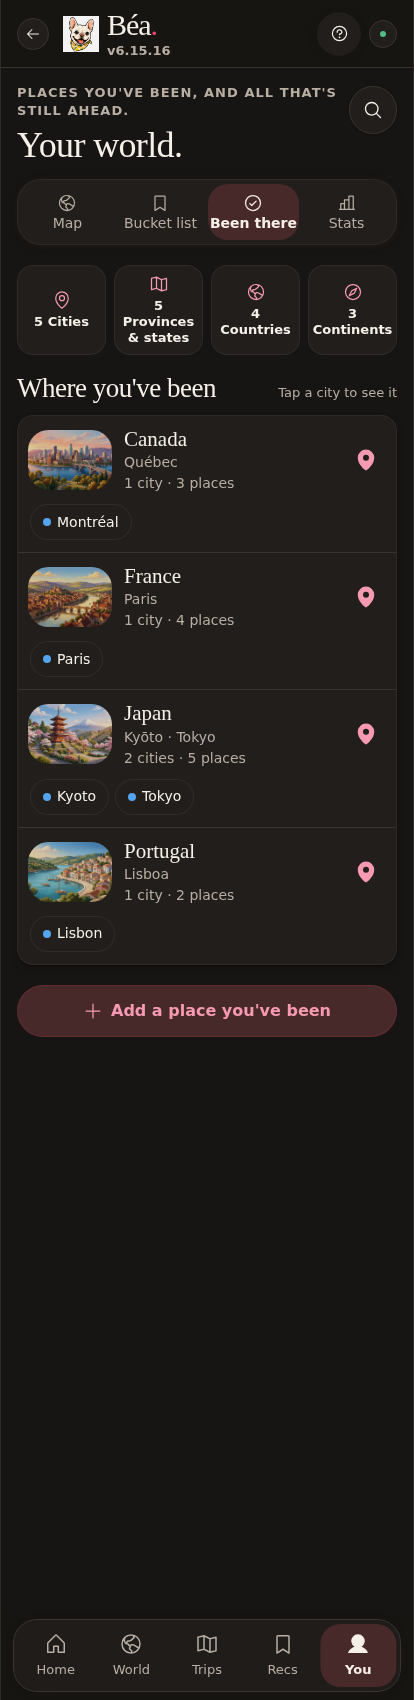
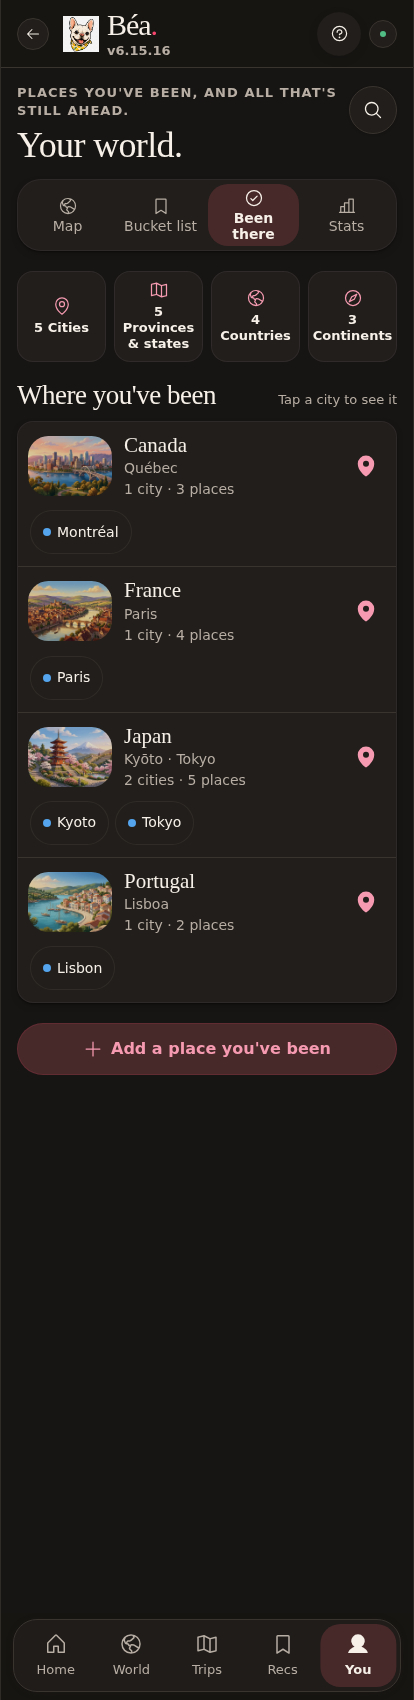
World: 44px city chips, theme shadow token, tabs wrap, drop unused row expand
Claude-Session: https://claude.ai/code/session_01NYW9EpN5zCTAuwYghz3pJg

diff --git a/src/routes/world.tsx b/src/routes/world.tsx
@@ -841,7 +841,7 @@ function WorldPage() {
                                       key={city.key}
                                       type="button"
                                       onClick={() => showCity(city.key)}
-                                      className="tile-fill-1 inline-flex min-h-9 items-center gap-1.5 rounded-full border border-border/60 px-3 text-[14px] font-medium"
+                                      className="tile-fill-1 inline-flex min-h-11 items-center gap-1.5 rounded-full border border-border/60 px-3 text-[14px] font-medium"
                                     >
                                       <span
                                         className="size-2 rounded-full bg-visited"
@@ -1151,8 +1151,6 @@ function PlaceRow({
   count,
   pin,
   menu,
-  onOpen,
-  expanded,
   extra,
 }: {
   picture: string;
@@ -1161,8 +1159,6 @@ function PlaceRow({
   count: string;
   pin: ReactNode;
   menu?: ReactNode;
-  onOpen?: (() => void) | undefined;
-  expanded?: boolean;
   extra?: ReactNode;
 }) {
   const text = (
@@ -1180,18 +1176,7 @@ function PlaceRow({
           alt=""
           className="art-dim h-[60px] w-[84px] shrink-0 rounded-xl object-cover"
         />
-        {onOpen ? (
-          <button
-            type="button"
-            onClick={onOpen}
-            aria-expanded={expanded}
-            className="flex min-w-0 flex-1 text-left"
-          >
-            {text}
-          </button>
-        ) : (
-          text
-        )}
+        {text}
         {pin}
         {menu}
       </div>

diff --git a/src/styles.css b/src/styles.css
@@ -1814,7 +1814,7 @@
   padding: 4px;
   border-radius: 24px;
   background: var(--card);
-  box-shadow: 0 1px 10px rgb(80 60 40 / 0.07);
+  box-shadow: var(--shadow-sm);
   border: 1px solid color-mix(in oklch, var(--border) 55%, transparent);
 }
 .world-tabs button {
@@ -1829,7 +1829,8 @@
   font-size: 14px;
   font-weight: 500;
   line-height: 1.15;
-  white-space: nowrap;
+  min-width: 0;
+  text-align: center;
   color: var(--muted-foreground);
 }
 .world-tabs button[aria-selected="true"] {
